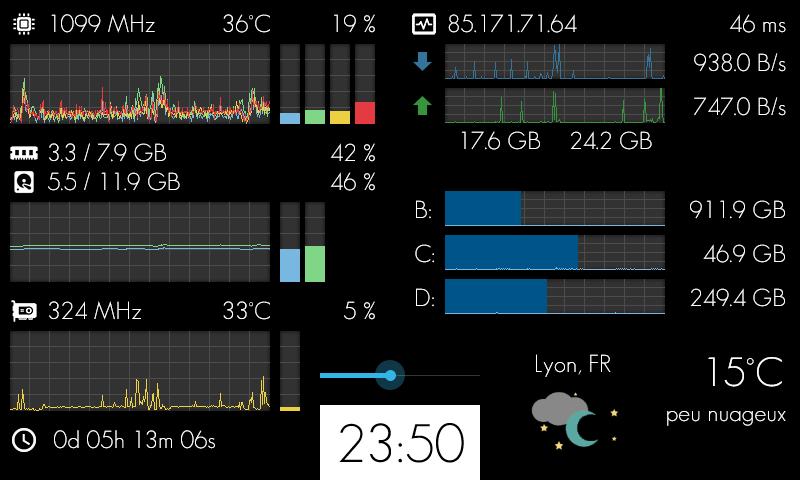
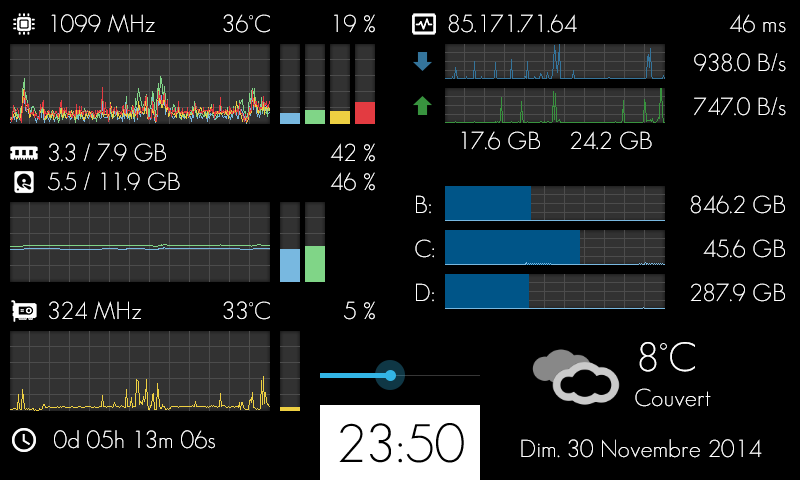
add date, remove weather location

diff --git a/README.md b/README.md
@@ -2,9 +2,11 @@
 
 Special skin to be displayed on a Galaxy S connected with AirDisplay (or any 800*480 screen).
 
+![screenshot](Screenshot.png)
+
 **Configure Variables.inc before launching**
 
-![screenshot](Screenshot.png)
+Tweak date format in `Measures.inc` on line 255.
 
 ## Indicators
 
@@ -24,6 +26,7 @@ Special skin to be displayed on a Galaxy S connected with AirDisplay (or any 800
  * 3 drives usage graphic + free space
  * Weather with temperature + icon
  * Clock
+ * Date
  * Volume
  
 ## Requirements
